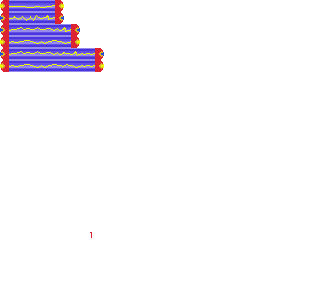
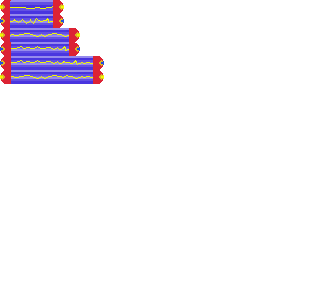
Upadte Gfx

Changed region(s): [[0.0, 0.0, 0.3438, 0.3]]

diff --git a/breakout.py b/breakout.py
@@ -406,42 +406,47 @@ class Ship:
         self.setMediumSize()
         self.texture = texture
         self.startTimeS = sdl2.timer.SDL_GetTicks()
+        self.startTimeAnim = sdl2.timer.SDL_GetTicks()
         self.startXMouse = 0
         self.hSpeed = 0
+        self.iflash = 0
 
-    def updateSpeed(self):
+    def updateState(self):
         nbTicks = sdl2.timer.SDL_GetTicks()
-        if (nbTicks-self.startTimeS)>10:
+        if (nbTicks-self.startTimeS)>20:
             self.startTimeS = nbTicks
             self.hSpeed = self.pos.x - self.startXMouse
             self.startXMouse = self.pos.x
+        if (nbTicks-self.startTimeAnim)>200:
+            self.startTimeAnim = nbTicks
+            self.iflash += 1
 
     def setSmallSize(self):
         self.w = 64
-        self.h = 12
+        self.h = 14
         self.w_2 = self.w/2
         self.isize = 0
 
     def setMediumSize(self):
         self.w = 80
-        self.h = 12
+        self.h = 14
         self.w_2 = self.w/2
         self.isize = 1
 
     def setBigSize(self):
         self.w = 104
-        self.h = 12
+        self.h = 14
         self.w_2 = self.w/2
         self.isize = 2
 
-    def draw(self, renderer, iflash):
+    def draw(self, renderer):
         #
         x1 = self.pos.x - self.w/2
         x2 = self.pos.x + self.w/2
         y1 = self.pos.y
         y2 = y1 + self.h
         if self.texture!=None:
-            src_rect = sdl2.SDL_Rect(x=0, y=(iflash % 2)*12 + 2*self.isize*12, w=self.w, h=self.h)
+            src_rect = sdl2.SDL_Rect(x=0, y=(self.iflash % 2)*self.h + 2*self.isize*self.h, w=self.w, h=self.h)
             dest_rect = sdl2.SDL_Rect(x=int(x1), y=int(y1), w=self.w, h=self.h)
             sdl2.SDL_RenderCopy(renderer,self.texture,src_rect,dest_rect)
         else:
@@ -575,7 +580,7 @@ class Game:
         if self.shipTextures!=None:
             y = WIN_HEIGHT - 20
             for i in range(0,self.lifes):
-                src_rect = sdl2.SDL_Rect(x=0, y=0, w=64, h=12)
+                src_rect = sdl2.SDL_Rect(x=0, y=0, w=64, h=14)
                 x = i * 40 + 10
                 dest_rect = sdl2.SDL_Rect(x=int(x), y=int(y), w=32, h=8)
                 sdl2.SDL_RenderCopy(self.renderer,self.shipTextures,src_rect,dest_rect)
@@ -948,12 +953,8 @@ def run():
 
     startTimeH = sdl2.timer.SDL_GetTicks()
 
-    startTimeFlash = sdl2.timer.SDL_GetTicks()
-    iflash = 0
-
     lastMouseXrel = 0
     lastMouseX = 0
-    fmouseMove = False
 
     # run event loop
     running = True
@@ -1012,15 +1013,13 @@ def run():
             startTimeH = nbTicks
             if velocityH<0:
                 playerShip.moveLeft(8)
-                fmouseMove = False
             elif velocityH>0:
                 playerShip.moveRight(8)
-                fmouseMove = False
-            if fmouseMove:
+            else:
                 playerShip.last_pos.x = playerShip.pos.x
                 playerShip.pos.x = lastMouseX
 
-        playerShip.updateSpeed()
+        playerShip.updateState()
 
         # Update standby balls positions from ship
         for b in listBalls:
@@ -1166,11 +1165,7 @@ def run():
             b.draw(renderer)
 
         #
-        nbTicks = sdl2.timer.SDL_GetTicks()
-        if (nbTicks-startTimeFlash)>200:
-            startTimeFlash = nbTicks
-            iflash += 1
-        playerShip.draw(renderer,iflash)
+        playerShip.draw(renderer)
 
         #
         for b in listBonus:
